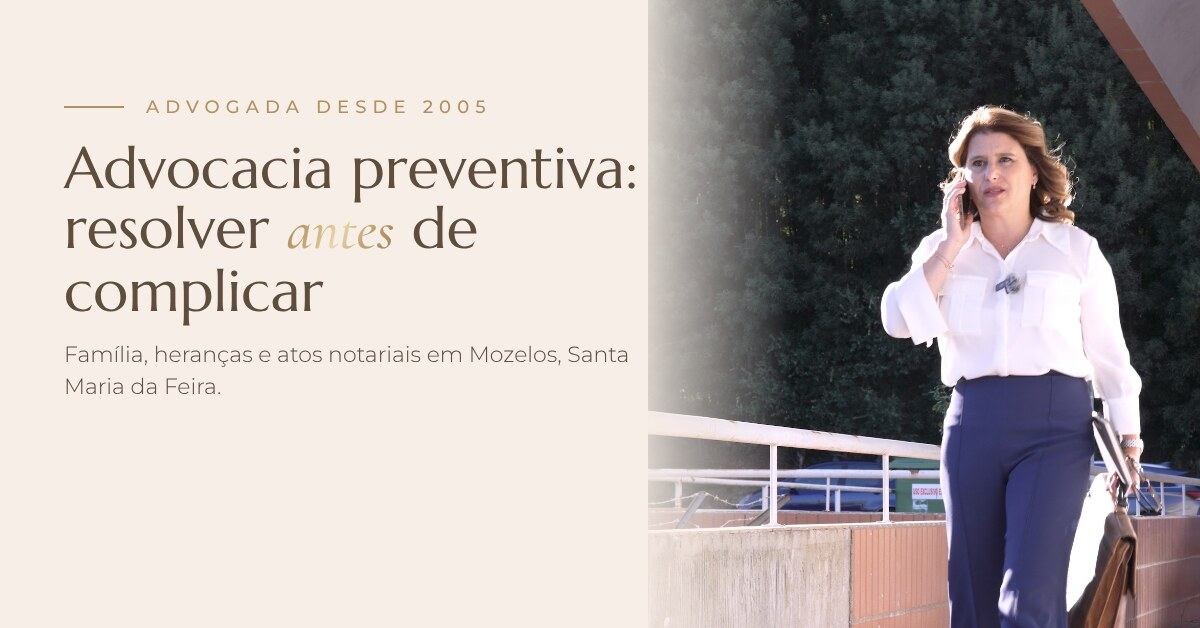
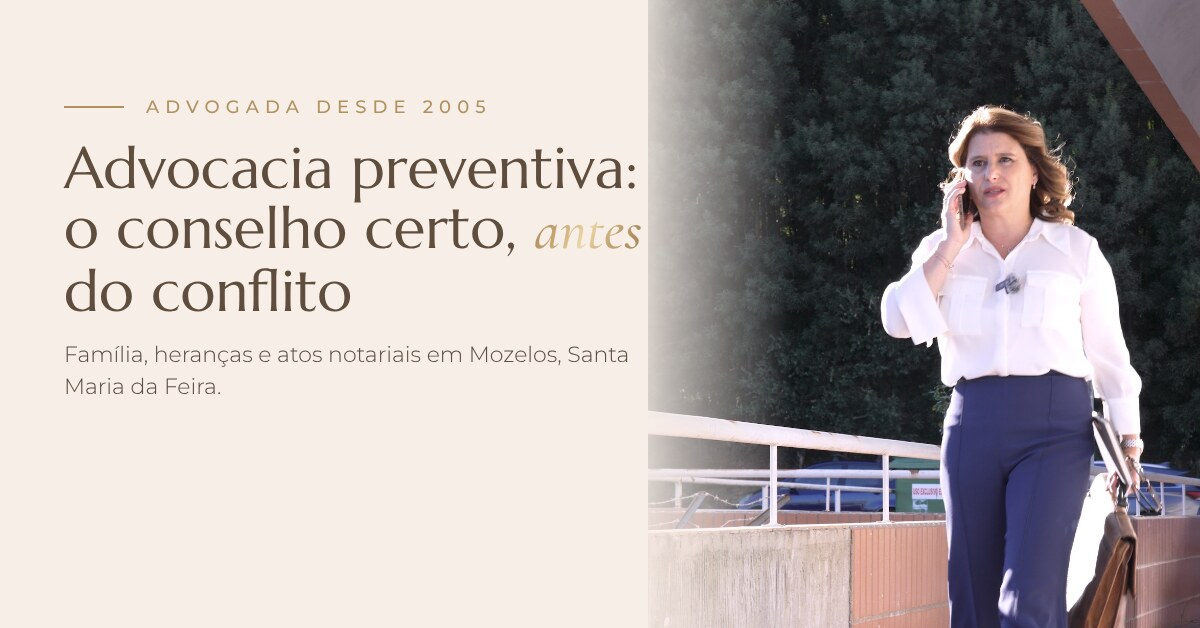
Lema da Dra., novo título do topo e das áreas, nova foto do Sobre e nomes dos estagiários
- Citação: 'O melhor processo é aquele que nunca foi intentado.' (site, /consulta, JSON-LD, posts, anúncios, estratégia; 5 idiomas)
- Topo: 'Advocacia preventiva: o conselho certo, antes do conflito.'
- Áreas: 'Áreas de atuação: ao seu lado em cada decisão'
- Sobre: nova foto (Dra. à secretária)
- Equipa: Andreia Tavares Pinho e Luís Paulo Reis, advogados estagiários

Claude-Session: https://claude.ai/code/session_01Ro4XVLwoq6dQxs5ZSBP7QT

Changed region(s): [[0.0308, 0.3328, 0.555, 0.3933], [0.0617, 0.4236, 0.3083, 0.5143]]

diff --git a/estrategia/index.html b/estrategia/index.html
@@ -391,11 +391,11 @@ footer { padding-block: 40px; text-align: center; font-size: .78rem; color: var(
         <li class="q" data-id="dados-2" data-grupo="dados"><label class="q__chk"><input type="checkbox" id="dados-2"><span></span></label><div class="q__corpo"><label for="dados-2-n" class="q__txt">Email público (ex.: geral@soniasantosadvogada.pt) e email que recebe os pedidos</label><textarea id="dados-2-n" rows="1" placeholder="Resposta / notas"></textarea></div></li>
         <li class="q" data-id="dados-3" data-grupo="dados"><label class="q__chk"><input type="checkbox" id="dados-3"><span></span></label><div class="q__corpo"><label for="dados-3-n" class="q__txt">Horário do escritório</label><textarea id="dados-3-n" rows="1" placeholder="Resposta / notas"></textarea></div></li>
         <li class="q" data-id="dados-4" data-grupo="dados"><label class="q__chk"><input type="checkbox" id="dados-4"><span></span></label><div class="q__corpo"><label for="dados-4-n" class="q__txt">N.º de cédula profissional e NIPC</label><textarea id="dados-4-n" rows="1" placeholder="Resposta / notas"></textarea></div></li>
-        <li class="q" data-id="dados-5" data-grupo="dados"><label class="q__chk"><input type="checkbox" id="dados-5"><span></span></label><div class="q__corpo"><label for="dados-5-n" class="q__txt">Nomes dos dois advogados estagiários e se autorizam aparecer no site</label><textarea id="dados-5-n" rows="1" placeholder="Resposta / notas"></textarea></div></li>
+        <li class="q" data-id="dados-5" data-grupo="dados"><label class="q__chk"><input type="checkbox" id="dados-5"><span></span></label><div class="q__corpo"><label for="dados-5-n" class="q__txt">Andreia Tavares Pinho e Luís Paulo Reis autorizam aparecer no site (nome e foto)?</label><textarea id="dados-5-n" rows="1" placeholder="Resposta / notas"></textarea></div></li>
         <li class="q" data-id="dados-6" data-grupo="dados"><label class="q__chk"><input type="checkbox" id="dados-6"><span></span></label><div class="q__corpo"><label for="dados-6-n" class="q__txt">Links do Instagram e LinkedIn</label><textarea id="dados-6-n" rows="1" placeholder="Resposta / notas"></textarea></div></li>
       </ul></details>
       <details class="grupo" open><summary><span>Textos e conteúdo</span><small data-grupo="textos"></small></summary><ul>
-        <li class="q" data-id="textos-0" data-grupo="textos"><label class="q__chk"><input type="checkbox" id="textos-0"><span></span></label><div class="q__corpo"><label for="textos-0-n" class="q__txt">Aprova a citação “O melhor processo é aquele que nunca chega a tribunal.”?</label><div class="sn" role="group" aria-label="Resposta"><label><input type="radio" name="textos-0-sn" value="Sim"><span>Sim</span></label><label><input type="radio" name="textos-0-sn" value="Não"><span>Não</span></label><label><input type="radio" name="textos-0-sn" value="A ver"><span>A ver</span></label></div><textarea id="textos-0-n" rows="1" placeholder="Resposta / notas"></textarea></div></li>
+        <li class="q" data-id="textos-0" data-grupo="textos"><label class="q__chk"><input type="checkbox" id="textos-0"><span></span></label><div class="q__corpo"><label for="textos-0-n" class="q__txt">Aprova a citação “O melhor processo é aquele que nunca foi intentado.”?</label><div class="sn" role="group" aria-label="Resposta"><label><input type="radio" name="textos-0-sn" value="Sim"><span>Sim</span></label><label><input type="radio" name="textos-0-sn" value="Não"><span>Não</span></label><label><input type="radio" name="textos-0-sn" value="A ver"><span>A ver</span></label></div><textarea id="textos-0-n" rows="1" placeholder="Resposta / notas"></textarea></div></li>
         <li class="q" data-id="textos-1" data-grupo="textos"><label class="q__chk"><input type="checkbox" id="textos-1"><span></span></label><div class="q__corpo"><label for="textos-1-n" class="q__txt">Aprova os textos do Sobre e das áreas de atuação?</label><div class="sn" role="group" aria-label="Resposta"><label><input type="radio" name="textos-1-sn" value="Sim"><span>Sim</span></label><label><input type="radio" name="textos-1-sn" value="Não"><span>Não</span></label><label><input type="radio" name="textos-1-sn" value="A ver"><span>A ver</span></label></div><textarea id="textos-1-n" rows="1" placeholder="Resposta / notas"></textarea></div></li>
         <li class="q" data-id="textos-2" data-grupo="textos"><label class="q__chk"><input type="checkbox" id="textos-2"><span></span></label><div class="q__corpo"><label for="textos-2-n" class="q__txt">Que serviços quer destacar em Advocacia de empresa (contratos, sociedades, cobranças…)?</label><textarea id="textos-2-n" rows="1" placeholder="Resposta / notas"></textarea></div></li>
         <li class="q" data-id="textos-3" data-grupo="textos"><label class="q__chk"><input type="checkbox" id="textos-3"><span></span></label><div class="q__corpo"><label for="textos-3-n" class="q__txt">Aprova os textos jurídicos dos posts (“Sabia que” sobre a legítima, “Mito ou facto” sobre testamentos)?</label><div class="sn" role="group" aria-label="Resposta"><label><input type="radio" name="textos-3-sn" value="Sim"><span>Sim</span></label><label><input type="radio" name="textos-3-sn" value="Não"><span>Não</span></label><label><input type="radio" name="textos-3-sn" value="A ver"><span>A ver</span></label></div><textarea id="textos-3-n" rows="1" placeholder="Resposta / notas"></textarea></div></li>
@@ -429,7 +429,7 @@ footer { padding-block: 40px; text-align: center; font-size: .78rem; color: var(
 
   <section class="bloco" id="estrategia">
     <div class="cab"><span class="cab__n">02</span><h2>Estratégia</h2><p>O que queremos que as pessoas pensem quando veem um post da Dra. Sónia.</p></div>
-    <p class="posicao">“A advogada que ajuda a resolver antes de complicar.” Próxima, rigorosa e focada na prevenção, sobretudo em família, heranças e empresas.</p>
+    <p class="posicao">“A advogada que dá o conselho certo, antes do conflito.” Próxima, rigorosa e focada na prevenção, sobretudo em família, heranças e empresas.</p>
 
     <div class="cartoes">
       <div class="cartao"><p class="eyebrow">Público 1</p><h3>Famílias da região</h3><p>Santa Maria da Feira e arredores. Heranças, partilhas, testamentos, divórcios e responsabilidades parentais.</p></div>
@@ -537,14 +537,14 @@ footer { padding-block: 40px; text-align: center; font-size: .78rem; color: var(
 Partilhas e Inventários
 Advogada Santa Maria da Feira
 Desde 2005 em Mozelos
-Resolva Antes de Complicar
+O Conselho Certo a Tempo
 Herança por Partilhar?
 Consulta no Escritório
 Ou por Videochamada
 Advocacia Preventiva
 Sigilo Profissional
 Acordos Entre Herdeiros
-Inventário Judicial ou Notário">Copiar todos</button></div><ol class="lst"><li><span>Advogada em Heranças</span><small>20</small></li><li><span>Partilhas e Inventários</span><small>23</small></li><li><span>Advogada Santa Maria da Feira</span><small>29</small></li><li><span>Desde 2005 em Mozelos</span><small>21</small></li><li><span>Resolva Antes de Complicar</span><small>26</small></li><li><span>Herança por Partilhar?</span><small>22</small></li><li><span>Consulta no Escritório</span><small>22</small></li><li><span>Ou por Videochamada</span><small>19</small></li><li><span>Advocacia Preventiva</span><small>20</small></li><li><span>Sigilo Profissional</span><small>19</small></li><li><span>Acordos Entre Herdeiros</span><small>23</small></li><li><span>Inventário Judicial ou Notário</span><small>30</small></li></ol></div>
+Inventário Judicial ou Notário">Copiar todos</button></div><ol class="lst"><li><span>Advogada em Heranças</span><small>20</small></li><li><span>Partilhas e Inventários</span><small>23</small></li><li><span>Advogada Santa Maria da Feira</span><small>29</small></li><li><span>Desde 2005 em Mozelos</span><small>21</small></li><li><span>O Conselho Certo a Tempo</span><small>26</small></li><li><span>Herança por Partilhar?</span><small>22</small></li><li><span>Consulta no Escritório</span><small>22</small></li><li><span>Ou por Videochamada</span><small>19</small></li><li><span>Advocacia Preventiva</span><small>20</small></li><li><span>Sigilo Profissional</span><small>19</small></li><li><span>Acordos Entre Herdeiros</span><small>23</small></li><li><span>Inventário Judicial ou Notário</span><small>30</small></li></ol></div>
           </div>
           <div class="ad-campo__cab"><b>Descrições <em>(máx. 90)</em></b><button class="btn btn--mini" type="button" data-texto="Partilhas, inventários e acordos entre herdeiros. Advogada desde 2005 em Mozelos.
 Consulta no escritório em Santa Maria da Feira ou por videochamada.
@@ -741,9 +741,9 @@ Heranças, partilhas e procurações podem começar com uma consulta por videoch
         <div class="meta"><span class="chip chip--ouro">A4</span><span class="chip">Seguidores</span></div>
         <div class="ad-campo__cab"><b>Texto</b><button class="btn btn--mini" type="button" data-texto="Siga para dicas práticas sobre família, heranças e contratos, explicadas de forma simples pela Dra. Sónia Alexandra Santos, advogada desde 2005 em Santa Maria da Feira.
 
-&quot;O melhor processo é aquele que nunca chega a tribunal.&quot;">Copiar</button></div><p class="ad-texto">Siga para dicas práticas sobre família, heranças e contratos, explicadas de forma simples pela Dra. Sónia Alexandra Santos, advogada desde 2005 em Santa Maria da Feira.
+&quot;O melhor processo é aquele que nunca foi intentado.&quot;">Copiar</button></div><p class="ad-texto">Siga para dicas práticas sobre família, heranças e contratos, explicadas de forma simples pela Dra. Sónia Alexandra Santos, advogada desde 2005 em Santa Maria da Feira.
 
-&quot;O melhor processo é aquele que nunca chega a tribunal.&quot;</p>
+&quot;O melhor processo é aquele que nunca foi intentado.&quot;</p>
         <ol class="passos-ad" style="margin:14px 0 0">
           <li>Publicar o post A4 no perfil (ou usar o post 04 “Antes de assinar” e o 07 “Mito ou facto”, os mais úteis).</li>
           <li>Na app do Instagram: <b>Promover</b> → objetivo <b>Mais visitas ao perfil</b>.</li>
@@ -832,7 +832,7 @@ Mapa: https://www.google.com/maps/search/?api=1&amp;query=Rua+Dr.+Amorim%2C+Ed.+
         <li>Responder a comentários e mensagens no prazo de 24 horas.</li>
       </ul></div>
       <div class="caixa caixa--clara"><h3>Para a Dra. aprovar</h3><ul>
-        <li><b>Citação:</b> “O melhor processo é aquele que nunca chega a tribunal.”</li>
+        <li><b>Citação:</b> “O melhor processo é aquele que nunca foi intentado.”</li>
         <li><b>Textos jurídicos:</b> o “Sabia que” sobre a legítima e o “Mito ou facto” sobre testamentos.</li>
         <li><b>Nome do perfil:</b> @soniasantosadvogada (confirmar se está livre).</li>
         <li><b>Legendas do LinkedIn</b> na primeira pessoa.</li>
@@ -889,7 +889,7 @@ Rua Dr. Amorim, Ed. Casa do Povo, Loja G
 Para reuniões presenciais e atos notariais. Indicações de como chegar em soniasantosadvogada.pt`,
     tags: TAGS_BASE + ' #escritoriodeadvocacia' },
   { n: '06', titulo: 'Citação', tema: 'Proximidade', imgs: ['06-citacao'],
-    legenda: `“O melhor processo é aquele que nunca chega a tribunal.”
+    legenda: `“O melhor processo é aquele que nunca foi intentado.”
 — Dra. Sónia Alexandra Santos
 
 Rever um contrato antes de o assinar, planear uma partilha ou preparar um testamento a tempo: é assim que a advocacia preventiva evita litígios.`,
@@ -923,7 +923,7 @@ Desde 2005 que acompanho pessoas, famílias e empresas. O site reúne as áreas 
 Obrigada a todos os que confiam no nosso trabalho.`,
     tags: '#advocacia #advocaciapreventiva #santamariadafeira' },
   { n: 'L2', titulo: 'Citação', img: 'L2-citacao', aviso: 'Citação: aprovar',
-    legenda: `“O melhor processo é aquele que nunca chega a tribunal.”
+    legenda: `“O melhor processo é aquele que nunca foi intentado.”
 
 É a ideia que orienta a minha prática há mais de 20 anos. Um contrato bem revisto, uma partilha planeada a tempo ou um testamento bem preparado evitam meses, por vezes anos, de litígio.
 

diff --git a/i18n.js b/i18n.js
@@ -18,7 +18,7 @@ window.TRADUCOES = {
     'nav.sobre': 'About', 'nav.areas': 'Practice areas', 'nav.equipa': 'Team', 'nav.escritorio': 'Office', 'nav.contacto': 'Contact',
     'nav.cta': 'Book a consultation', 'nav.online': 'Online consultation',
     'hero.eyebrow': 'Lawyer in Santa Maria da Feira · Since 2005',
-    'hero.l1': 'Preventive law:', 'hero.l2': 'resolve it <em class="ouro-texto">before</em>', 'hero.l3': 'it gets complicated.',
+    'hero.l1': 'Preventive law:', 'hero.l2': 'the right advice,', 'hero.l3': '<em class="ouro-texto">before</em> the dispute.',
     'hero.lead': 'Legal support for individuals, families and businesses, with a focus on prevention. At the office in Santa Maria da Feira or by video call, wherever you are.',
     'hero.cta1': 'Book a consultation', 'hero.cta2': 'See services',
     'faixa.1': 'Online consultation', 'faixa.2': 'Divorce', 'faixa.3': 'Inheritance', 'faixa.4': 'Estate division', 'faixa.5': 'Wills',
@@ -43,11 +43,11 @@ window.TRADUCOES = {
     'form.op1': 'Family and Succession Law', 'form.op2': 'Notarial services', 'form.op3': 'Other matter',
     'form.contacto': 'Phone or email', 'form.msg': 'Message', 'form.enviar': 'Send request', 'form.ok': 'Thank you! We will be in touch shortly.',
     'sobre.eyebrow': 'About',
-    'sobre.citacao': '“The best case is the one that never reaches court.”',
+    'sobre.citacao': '“The best lawsuit is the one that was never filed.”',
     'sobre.p1': 'A lawyer since 2005, she has built her career on preventive law: helping individuals and businesses make the right decisions before problems arise.',
     'sobre.p2': 'She practises mainly as a corporate lawyer and in Family and Succession Law, with an office in Mozelos, Santa Maria da Feira, and also offers consultations by video call.',
     'v1t': 'Prevention', 'v1d': 'Anticipating risks before they become disputes.', 'v2t': 'Rigour', 'v2d': 'Sound, well-founded solutions.', 'v3t': 'Discretion', 'v3d': 'Professional secrecy in every matter.',
-    'areas.eyebrow': 'Practice areas', 'areas.titulo': 'Practice areas: <em class="ouro-texto">prevent</em> rather than cure',
+    'areas.eyebrow': 'Practice areas', 'areas.titulo': 'Practice areas: <em class="ouro-texto">by your side</em> in every decision',
     'a1.etq': 'People &amp; families', 'a1.titulo': 'Family and Succession Law',
     'a1.1': 'Divorce (by mutual consent and contested)', 'a1.2': 'Inheritance / probate inventories (in and out of court)', 'a1.3': 'Division of estates',
     'a1.4': 'Wills', 'a1.5': 'Juvenile educational proceedings', 'a1.6': 'Parental responsibilities arrangements',
@@ -108,7 +108,7 @@ window.TRADUCOES = {
     'nav.sobre': 'À propos', 'nav.areas': 'Domaines', 'nav.equipa': 'Équipe', 'nav.escritorio': 'Cabinet', 'nav.contacto': 'Contact',
     'nav.cta': 'Prendre rendez-vous', 'nav.online': 'Consultation en ligne',
     'hero.eyebrow': 'Avocate à Santa Maria da Feira · Depuis 2005',
-    'hero.l1': 'Le droit préventif :', 'hero.l2': 'régler <em class="ouro-texto">avant</em>', 'hero.l3': 'que ça se complique.',
+    'hero.l1': 'Le droit préventif :', 'hero.l2': 'le bon conseil,', 'hero.l3': '<em class="ouro-texto">avant</em> le conflit.',
     'hero.lead': 'Un accompagnement juridique des particuliers, des familles et des entreprises, axé sur la prévention. Au cabinet à Santa Maria da Feira ou par visioconférence, où que vous soyez.',
     'hero.cta1': 'Prendre rendez-vous', 'hero.cta2': 'Voir les services',
     'faixa.1': 'Consultation en ligne', 'faixa.2': 'Divorces', 'faixa.3': 'Successions', 'faixa.4': 'Partages', 'faixa.5': 'Testaments',
@@ -133,11 +133,11 @@ window.TRADUCOES = {
     'form.op1': 'Droit de la famille et des successions', 'form.op2': 'Actes notariés', 'form.op3': 'Autre sujet',
     'form.contacto': 'Téléphone ou email', 'form.msg': 'Message', 'form.enviar': 'Envoyer la demande', 'form.ok': 'Merci ! Nous vous contacterons très bientôt.',
     'sobre.eyebrow': 'À propos',
-    'sobre.citacao': '« Le meilleur procès est celui qui n’arrive jamais au tribunal. »',
+    'sobre.citacao': '« Le meilleur procès est celui qui n’a jamais été intenté. »',
     'sobre.p1': 'Avocate depuis 2005, elle a construit son parcours sur le droit préventif : aider particuliers et entreprises à prendre les bonnes décisions avant que les problèmes n’apparaissent.',
     'sobre.p2': 'Elle exerce principalement comme avocate d’entreprise et en droit de la famille et des successions, avec un cabinet à Mozelos, Santa Maria da Feira, et propose aussi des consultations par visioconférence.',
     'v1t': 'Prévention', 'v1d': 'Anticiper les risques avant qu’ils ne deviennent des litiges.', 'v2t': 'Rigueur', 'v2d': 'Des solutions solides et bien fondées.', 'v3t': 'Discrétion', 'v3d': 'Secret professionnel en toutes matières.',
-    'areas.eyebrow': 'Domaines d’intervention', 'areas.titulo': 'Domaines d’intervention : <em class="ouro-texto">prévenir</em> plutôt que guérir',
+    'areas.eyebrow': 'Domaines d’intervention', 'areas.titulo': 'Domaines d’intervention : <em class="ouro-texto">à vos côtés</em> à chaque décision',
     'a1.etq': 'Personnes &amp; familles', 'a1.titulo': 'Droit de la famille et des successions',
     'a1.1': 'Divorces (par consentement mutuel et contentieux)', 'a1.2': 'Successions / inventaires (judiciaires et extrajudiciaires)', 'a1.3': 'Partages',
     'a1.4': 'Testaments', 'a1.5': 'Procédures tutélaires éducatives', 'a1.6': 'Organisation de l’autorité parentale',
@@ -198,7 +198,7 @@ window.TRADUCOES = {
     'nav.sobre': 'Über mich', 'nav.areas': 'Rechtsgebiete', 'nav.equipa': 'Team', 'nav.escritorio': 'Kanzlei', 'nav.contacto': 'Kontakt',
     'nav.cta': 'Termin vereinbaren', 'nav.online': 'Online-Beratung',
     'hero.eyebrow': 'Rechtsanwältin in Santa Maria da Feira · Seit 2005',
-    'hero.l1': 'Präventive Rechtsberatung:', 'hero.l2': 'lösen, <em class="ouro-texto">bevor</em>', 'hero.l3': 'es kompliziert wird.',
+    'hero.l1': 'Präventive Rechtsberatung:', 'hero.l2': 'der richtige Rat,', 'hero.l3': '<em class="ouro-texto">vor</em> dem Konflikt.',
     'hero.lead': 'Rechtliche Begleitung für Privatpersonen, Familien und Unternehmen mit Schwerpunkt auf Prävention. In der Kanzlei in Santa Maria da Feira oder per Videoanruf, wo immer Sie sind.',
     'hero.cta1': 'Termin vereinbaren', 'hero.cta2': 'Leistungen ansehen',
     'faixa.1': 'Online-Beratung', 'faixa.2': 'Scheidungen', 'faixa.3': 'Erbschaften', 'faixa.4': 'Erbteilungen', 'faixa.5': 'Testamente',
@@ -223,11 +223,11 @@ window.TRADUCOES = {
     'form.op1': 'Familien- und Erbrecht', 'form.op2': 'Notarielle Akte', 'form.op3': 'Anderes Anliegen',
     'form.contacto': 'Telefon oder E-Mail', 'form.msg': 'Nachricht', 'form.enviar': 'Anfrage senden', 'form.ok': 'Vielen Dank! Wir melden uns in Kürze.',
     'sobre.eyebrow': 'Über mich',
-    'sobre.citacao': '„Das beste Verfahren ist das, das nie vor Gericht landet.“',
+    'sobre.citacao': '„Das beste Verfahren ist jenes, das nie eingeleitet wurde.“',
     'sobre.p1': 'Seit 2005 als Rechtsanwältin tätig, hat sie ihren Weg auf der präventiven Rechtsberatung aufgebaut: Privatpersonen und Unternehmen helfen, die richtigen Entscheidungen zu treffen, bevor Probleme entstehen.',
     'sobre.p2': 'Sie ist vor allem als Unternehmensanwältin sowie im Familien- und Erbrecht tätig, mit Kanzlei in Mozelos, Santa Maria da Feira, und bietet auch Beratungen per Videoanruf an.',
     'v1t': 'Prävention', 'v1d': 'Risiken erkennen, bevor daraus Streitigkeiten werden.', 'v2t': 'Sorgfalt', 'v2d': 'Solide, gut begründete Lösungen.', 'v3t': 'Diskretion', 'v3d': 'Schweigepflicht in allen Angelegenheiten.',
-    'areas.eyebrow': 'Rechtsgebiete', 'areas.titulo': 'Rechtsgebiete: <em class="ouro-texto">vorbeugen</em> statt heilen',
+    'areas.eyebrow': 'Rechtsgebiete', 'areas.titulo': 'Rechtsgebiete: <em class="ouro-texto">an Ihrer Seite</em> bei jeder Entscheidung',
     'a1.etq': 'Menschen &amp; Familien', 'a1.titulo': 'Familien- und Erbrecht',
     'a1.1': 'Scheidungen (einvernehmlich und streitig)', 'a1.2': 'Erbschaften / Nachlassverzeichnisse (gerichtlich und außergerichtlich)', 'a1.3': 'Erbteilungen',
     'a1.4': 'Testamente', 'a1.5': 'Jugendschutzverfahren', 'a1.6': 'Regelung der elterlichen Sorge',
@@ -288,7 +288,7 @@ window.TRADUCOES = {
     'nav.sobre': 'Chi sono', 'nav.areas': 'Aree di attività', 'nav.equipa': 'Team', 'nav.escritorio': 'Studio', 'nav.contacto': 'Contatti',
     'nav.cta': 'Prenota una consulenza', 'nav.online': 'Consulenza online',
     'hero.eyebrow': 'Avvocata a Santa Maria da Feira · Dal 2005',
-    'hero.l1': 'Avvocatura preventiva:', 'hero.l2': 'risolvere <em class="ouro-texto">prima</em>', 'hero.l3': 'che si complichi.',
+    'hero.l1': 'Avvocatura preventiva:', 'hero.l2': 'il consiglio giusto,', 'hero.l3': '<em class="ouro-texto">prima</em> del conflitto.',
     'hero.lead': 'Assistenza legale a privati, famiglie e imprese, con un’attenzione particolare alla prevenzione. In studio a Santa Maria da Feira o in videochiamata, ovunque vi troviate.',
     'hero.cta1': 'Prenota una consulenza', 'hero.cta2': 'Vedi i servizi',
     'faixa.1': 'Consulenza online', 'faixa.2': 'Divorzi', 'faixa.3': 'Eredità', 'faixa.4': 'Divisioni', 'faixa.5': 'Testamenti',
@@ -313,11 +313,11 @@ window.TRADUCOES = {
     'form.op1': 'Diritto di famiglia e delle successioni', 'form.op2': 'Atti notarili', 'form.op3': 'Altro',
     'form.contacto': 'Telefono o email', 'form.msg': 'Messaggio', 'form.enviar': 'Invia richiesta', 'form.ok': 'Grazie! La contatteremo al più presto.',
     'sobre.eyebrow': 'Chi sono',
-    'sobre.citacao': '«Il miglior processo è quello che non arriva mai in tribunale.»',
+    'sobre.citacao': '«Il miglior processo è quello che non è mai stato intentato.»',
     'sobre.p1': 'Avvocata dal 2005, ha costruito il suo percorso sull’avvocatura preventiva: aiutare privati e imprese a prendere le decisioni giuste prima che i problemi si presentino.',
     'sobre.p2': 'Esercita soprattutto come avvocata d’impresa e in diritto di famiglia e delle successioni, con studio a Mozelos, Santa Maria da Feira, e offre anche consulenze in videochiamata.',
     'v1t': 'Prevenzione', 'v1d': 'Anticipare i rischi prima che diventino controversie.', 'v2t': 'Rigore', 'v2d': 'Soluzioni solide e ben fondate.', 'v3t': 'Discrezione', 'v3d': 'Segreto professionale in ogni materia.',
-    'areas.eyebrow': 'Aree di attività', 'areas.titulo': 'Aree di attività: <em class="ouro-texto">prevenire</em> è meglio che curare',
+    'areas.eyebrow': 'Aree di attività', 'areas.titulo': 'Aree di attività: <em class="ouro-texto">al suo fianco</em> in ogni decisione',
     'a1.etq': 'Persone &amp; famiglie', 'a1.titulo': 'Diritto di famiglia e delle successioni',
     'a1.1': 'Divorzi (consensuali e giudiziali)', 'a1.2': 'Eredità / inventari (giudiziali ed extragiudiziali)', 'a1.3': 'Divisioni',
     'a1.4': 'Testamenti', 'a1.5': 'Procedimenti tutelari educativi', 'a1.6': 'Regolamentazione della responsabilità genitoriale',

diff --git a/index.html b/index.html
@@ -14,7 +14,7 @@
   <meta property="og:locale" content="pt_PT">
   <meta property="og:site_name" content="Sónia Alexandra Santos — Advogada">
   <meta property="og:title" content="Advocacia Preventiva em Santa Maria da Feira | Dra. Sónia Alexandra Santos">
-  <meta property="og:description" content="Advocacia preventiva: resolver antes de complicar. Família, heranças, empresas e atos notariais em Mozelos, Santa Maria da Feira, no escritório ou por videochamada.">
+  <meta property="og:description" content="Advocacia preventiva: o conselho certo, antes do conflito. Família, heranças, empresas e atos notariais em Mozelos, Santa Maria da Feira, no escritório ou por videochamada.">
   <meta property="og:url" content="https://soniasantosadvogada.pt/">
   <meta property="og:image" content="https://soniasantosadvogada.pt/img/partilha.jpg">
   <meta property="og:image:width" content="1200">
@@ -26,7 +26,7 @@
   <link rel="manifest" href="/site.webmanifest">
   <link rel="stylesheet" href="styles.css">
   <script type="application/ld+json">
-  {"@context": "https://schema.org", "@graph": [{"@type": ["LegalService", "Attorney"], "@id": "https://soniasantosadvogada.pt/#escritorio", "name": "Sónia Alexandra Santos — Advogada, RL", "url": "https://soniasantosadvogada.pt/", "description": "Advogada desde 2005 em Mozelos, Santa Maria da Feira. Advocacia preventiva para famílias e empresas: heranças, testamentos, divórcios, contratos e atos notariais.", "slogan": "O melhor processo é aquele que nunca chega a tribunal.", "image": "https://soniasantosadvogada.pt/img/partilha.jpg", "logo": "https://soniasantosadvogada.pt/img/logo.png", "foundingDate": "2005", "address": {"@type": "PostalAddress", "streetAddress": "Rua Dr. Amorim, Ed. Casa do Povo, Loja G", "postalCode": "4535-211", "addressLocality": "Mozelos", "addressRegion": "Santa Maria da Feira", "addressCountry": "PT"}, "areaServed": [{"@type": "City", "name": "Santa Maria da Feira"}, {"@type": "Country", "name": "Portugal"}], "availableLanguage": ["pt", "en"], "knowsAbout": ["Advocacia preventiva", "Direito da Família", "Sucessões e heranças", "Partilhas", "Testamentos", "Divórcio", "Responsabilidades parentais", "Atos notariais", "Procurações", "Advocacia de empresa", "Contratos"], "founder": {"@id": "https://soniasantosadvogada.pt/#sonia"}}, {"@type": "Person", "@id": "https://soniasantosadvogada.pt/#sonia", "name": "Sónia Alexandra Santos", "jobTitle": "Advogada", "worksFor": {"@id": "https://soniasantosadvogada.pt/#escritorio"}, "image": "https://soniasantosadvogada.pt/img/sobre.jpg"}, {"@type": "WebSite", "@id": "https://soniasantosadvogada.pt/#site", "url": "https://soniasantosadvogada.pt/", "name": "Sónia Alexandra Santos — Advogada", "inLanguage": "pt-PT"}, {"@type": "FAQPage", "mainEntity": [{"@type": "Question", "name": "O que é advocacia preventiva?", "acceptedAnswer": {"@type": "Answer", "text": "É aconselhamento jurídico antes de o problema surgir: rever um contrato antes de o assinar, planear uma partilha ou preparar um testamento a tempo. Evita litígios, custos e desgaste."}}, {"@type": "Question", "name": "Como funciona a consulta online?", "acceptedAnswer": {"@type": "Answer", "text": "Escolhe o dia e a hora, paga 30 € e recebe por email o link da videochamada. No dia, basta abrir o link no telemóvel ou no computador."}}, {"@type": "Question", "name": "Que documentos devo ter à mão?", "acceptedAnswer": {"@type": "Answer", "text": "O seu documento de identificação e os documentos relacionados com o assunto. Se for útil, pedimos-lhe que os envie antes da consulta."}}, {"@type": "Question", "name": "A informação que partilho é confidencial?", "acceptedAnswer": {"@type": "Answer", "text": "Sim. Tudo o que nos transmite está protegido pelo sigilo profissional do advogado."}}, {"@type": "Question", "name": "Posso ser atendido no escritório?", "acceptedAnswer": {"@type": "Answer", "text": "Sim. Se preferir uma reunião presencial ou precisar de um ato notarial, marque pelo telefone, WhatsApp ou formulário de contacto."}}]}]}
+  {"@context": "https://schema.org", "@graph": [{"@type": ["LegalService", "Attorney"], "@id": "https://soniasantosadvogada.pt/#escritorio", "name": "Sónia Alexandra Santos — Advogada, RL", "url": "https://soniasantosadvogada.pt/", "description": "Advogada desde 2005 em Mozelos, Santa Maria da Feira. Advocacia preventiva para famílias e empresas: heranças, testamentos, divórcios, contratos e atos notariais.", "slogan": "O melhor processo é aquele que nunca foi intentado.", "image": "https://soniasantosadvogada.pt/img/partilha.jpg", "logo": "https://soniasantosadvogada.pt/img/logo.png", "foundingDate": "2005", "address": {"@type": "PostalAddress", "streetAddress": "Rua Dr. Amorim, Ed. Casa do Povo, Loja G", "postalCode": "4535-211", "addressLocality": "Mozelos", "addressRegion": "Santa Maria da Feira", "addressCountry": "PT"}, "areaServed": [{"@type": "City", "name": "Santa Maria da Feira"}, {"@type": "Country", "name": "Portugal"}], "availableLanguage": ["pt", "en"], "knowsAbout": ["Advocacia preventiva", "Direito da Família", "Sucessões e heranças", "Partilhas", "Testamentos", "Divórcio", "Responsabilidades parentais", "Atos notariais", "Procurações", "Advocacia de empresa", "Contratos"], "founder": {"@id": "https://soniasantosadvogada.pt/#sonia"}}, {"@type": "Person", "@id": "https://soniasantosadvogada.pt/#sonia", "name": "Sónia Alexandra Santos", "jobTitle": "Advogada", "worksFor": {"@id": "https://soniasantosadvogada.pt/#escritorio"}, "image": "https://soniasantosadvogada.pt/img/sobre.jpg"}, {"@type": "WebSite", "@id": "https://soniasantosadvogada.pt/#site", "url": "https://soniasantosadvogada.pt/", "name": "Sónia Alexandra Santos — Advogada", "inLanguage": "pt-PT"}, {"@type": "FAQPage", "mainEntity": [{"@type": "Question", "name": "O que é advocacia preventiva?", "acceptedAnswer": {"@type": "Answer", "text": "É aconselhamento jurídico antes de o problema surgir: rever um contrato antes de o assinar, planear uma partilha ou preparar um testamento a tempo. Evita litígios, custos e desgaste."}}, {"@type": "Question", "name": "Como funciona a consulta online?", "acceptedAnswer": {"@type": "Answer", "text": "Escolhe o dia e a hora, paga 30 € e recebe por email o link da videochamada. No dia, basta abrir o link no telemóvel ou no computador."}}, {"@type": "Question", "name": "Que documentos devo ter à mão?", "acceptedAnswer": {"@type": "Answer", "text": "O seu documento de identificação e os documentos relacionados com o assunto. Se for útil, pedimos-lhe que os envie antes da consulta."}}, {"@type": "Question", "name": "A informação que partilho é confidencial?", "acceptedAnswer": {"@type": "Answer", "text": "Sim. Tudo o que nos transmite está protegido pelo sigilo profissional do advogado."}}, {"@type": "Question", "name": "Posso ser atendido no escritório?", "acceptedAnswer": {"@type": "Answer", "text": "Sim. Se preferir uma reunião presencial ou precisar de um ato notarial, marque pelo telefone, WhatsApp ou formulário de contacto."}}]}]}
   </script>
 </head>
 <body>
@@ -92,8 +92,8 @@
           <p class="eyebrow" data-i18n="hero.eyebrow">Advogada em Santa Maria da Feira · Desde 2005</p>
           <h1>
             <span class="linha"><span data-i18n="hero.l1">Advocacia preventiva:</span></span>
-            <span class="linha"><span data-i18n="hero.l2">resolver <em class="ouro-texto">antes</em></span></span>
-            <span class="linha"><span data-i18n="hero.l3">de complicar.</span></span>
+            <span class="linha"><span data-i18n="hero.l2">o conselho certo,</span></span>
+            <span class="linha"><span data-i18n="hero.l3"><em class="ouro-texto">antes</em> do conflito.</span></span>
           </h1>
           <p class="lead" data-i18n="hero.lead">Acompanhamento jurídico a pessoas, famílias e empresas, com foco na prevenção. No escritório em Santa Maria da Feira ou por videochamada, onde quer que esteja.</p>
           <div class="hero__acoes">
@@ -135,7 +135,7 @@
           <ul class="factos" data-reveal>
             <li><b data-anos>20+</b><span data-i18n="sobre.f1">anos de advocacia<br>desde 2005</span></li>
           </ul>
-          <blockquote data-reveal data-i18n="sobre.citacao">“O melhor processo é aquele que nunca chega a tribunal.”</blockquote>
+          <blockquote data-reveal data-i18n="sobre.citacao">“O melhor processo é aquele que nunca foi intentado.”</blockquote>
           <p data-reveal data-i18n="sobre.p1">Advogada desde 2005, construiu o seu percurso na advocacia preventiva: ajudar pessoas e empresas a tomar as decisões certas antes de os problemas surgirem.</p>
           <p data-reveal data-i18n="sobre.p2">Exerce sobretudo como advogada de empresa e em Direito da Família e Sucessões, com escritório em Mozelos, Santa Maria da Feira, e consultas também por videochamada.</p>
           <ul class="valores">
@@ -261,7 +261,7 @@
       <div class="wrap">
         <div class="secao__cabecalho">
           <p class="eyebrow" data-reveal data-i18n="areas.eyebrow">Áreas de atuação</p>
-          <h2 data-reveal data-i18n="areas.titulo">Áreas de atuação: <em class="ouro-texto">prevenir</em> em vez de remediar</h2>
+          <h2 data-reveal data-i18n="areas.titulo">Áreas de atuação: <em class="ouro-texto">ao seu lado</em> em cada decisão</h2>
         </div>
         <div class="areas__grid">
           <article class="cartao cartao--destaque" data-reveal>
@@ -320,7 +320,6 @@
           <p class="eyebrow" data-reveal data-i18n="eq.eyebrow">Equipa</p>
           <h2 data-reveal data-i18n="eq.titulo">Quem <em class="ouro-texto">cuida</em> do seu processo</h2>
         </div>
-        <!-- TODO: substituir [Nome] pelos nomes dos advogados estagiários -->
         <div class="equipa__grupos">
           <div class="grupo" data-reveal>
             <p class="grupo__titulo" data-i18n="eq.g1">Advogada</p>
@@ -331,8 +330,8 @@
           <div class="grupo" data-reveal>
             <p class="grupo__titulo" data-i18n="eq.g2">Advogados estagiários</p>
             <ul class="grupo__lista">
-              <li class="membro"><img src="img/avatar-estagiaria.jpg" alt="" width="300" height="300" loading="lazy"><div><h3>[Nome]</h3><p data-i18n="eq.r2">Advogada estagiária</p></div></li>
-              <li class="membro"><img src="img/avatar-estagiario.jpg" alt="" width="300" height="300" loading="lazy"><div><h3>[Nome]</h3><p data-i18n="eq.r3">Advogado estagiário</p></div></li>
+              <li class="membro"><img src="img/avatar-estagiaria.jpg" alt="Andreia Tavares Pinho, advogada estagiária" width="300" height="300" loading="lazy"><div><h3>Andreia Tavares Pinho</h3><p data-i18n="eq.r2">Advogada estagiária</p></div></li>
+              <li class="membro"><img src="img/avatar-estagiario.jpg" alt="Luís Paulo Reis, advogado estagiário" width="300" height="300" loading="lazy"><div><h3>Luís Paulo Reis</h3><p data-i18n="eq.r3">Advogado estagiário</p></div></li>
             </ul>
           </div>
         </div>

diff --git a/consulta/index.html b/consulta/index.html
@@ -130,7 +130,7 @@
       <div class="wrap lp-hero__grid">
         <div>
           <p class="eyebrow">Família e heranças</p>
-          <h1>Herança, testamento ou partilha? <em class="ouro-texto">Resolva antes de complicar.</em></h1>
+          <h1>Herança, testamento ou partilha? <em class="ouro-texto">O conselho certo, antes do conflito.</em></h1>
           <p class="lead">Uma consulta com a Dra. Sónia Alexandra Santos para perceber a sua situação, conhecer os seus direitos e saber qual o melhor caminho. No escritório em Mozelos ou por videochamada.</p>
           <div class="lp-acoes">
             <a href="#pedido" class="btn btn--ouro"><span>Pedir marcação</span></a>
@@ -184,7 +184,7 @@
         <div>
           <p class="eyebrow">Quem a vai receber</p>
           <h2>Dra. Sónia <em class="ouro-texto">Alexandra</em> Santos</h2>
-          <blockquote>“O melhor processo é aquele que nunca chega a tribunal.”</blockquote>
+          <blockquote>“O melhor processo é aquele que nunca foi intentado.”</blockquote>
           <p>Advogada desde 2005, com a carreira construída na advocacia preventiva: ajudar pessoas e famílias a tomar as decisões certas antes de os problemas surgirem.</p>
           <ul class="lp-factos">
             <li><b data-anos>20+</b><span>anos de advocacia</span></li>
